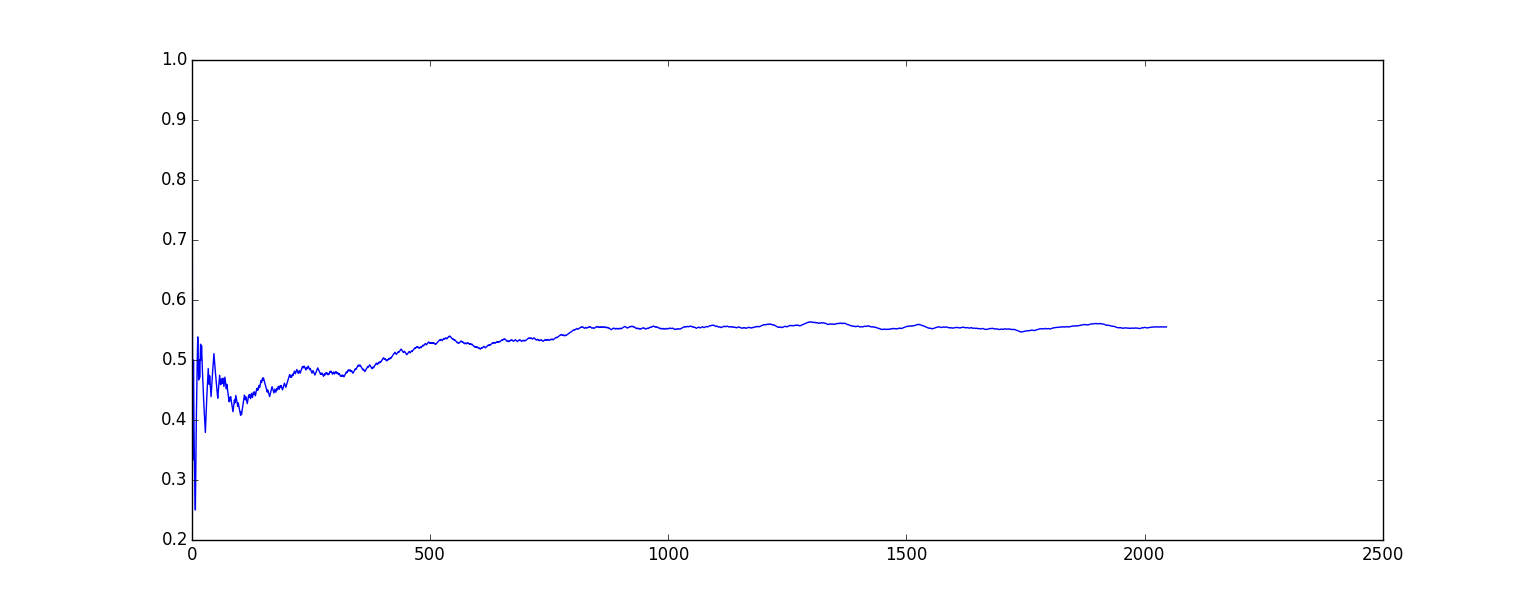
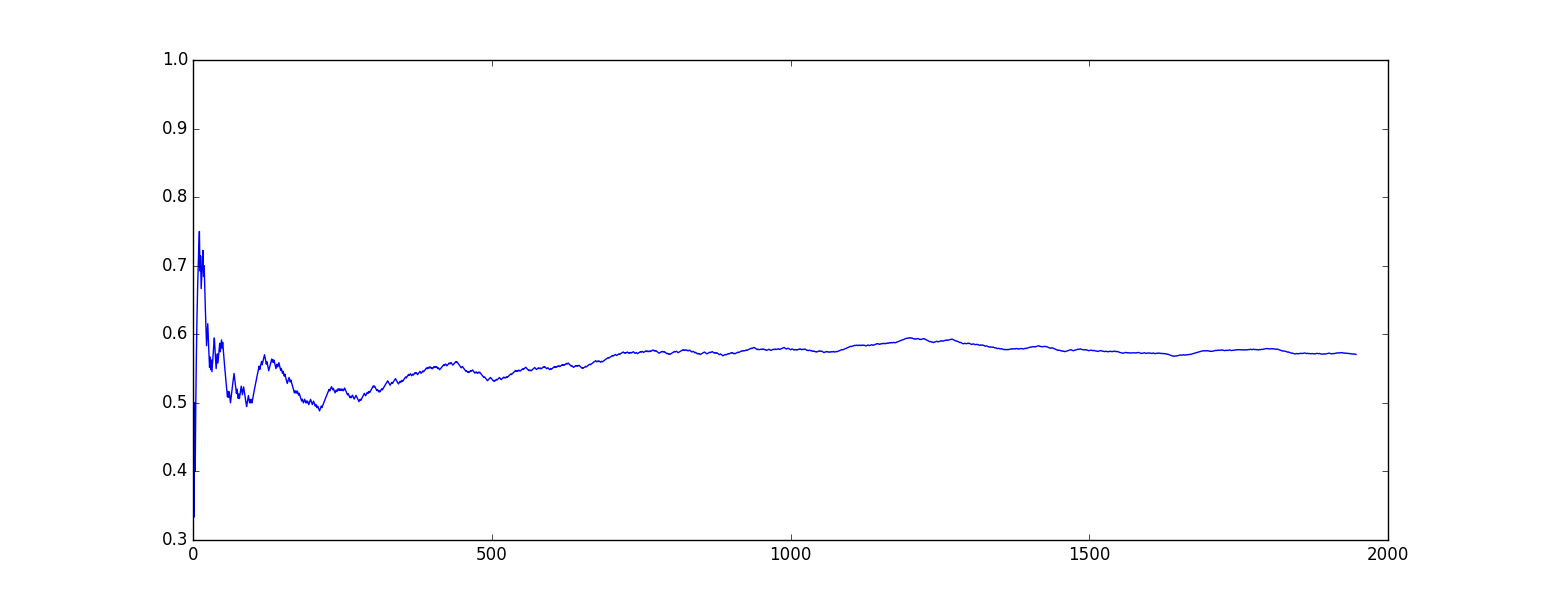
looking at different subsets for rf

diff --git a/test_warm_start.py b/test_warm_start.py
@@ -95,6 +95,73 @@ def from_100(): # 0.5546875 accuracy
     plt.plot(xrange(len(acc_growth)), acc_growth)
     plt.show()
 
+def from_dif():
+    # from_zero()
+    df = return_df()
+
+    x = df[['open','high','low','close']].values
+    y = df['classes'].values
+
+    # split = int(len(x) / 2)
+    # x_train = x[:split]
+    # y_train = y[:split]
+    #
+    # x_validate = x[split:]
+    # y_validate = y[split:]
+    #
+    # model = RandomForestClassifier()
+    # model.fit(x_train, y_train)
+
+    num_correct = []
+    weight = 50 # how much influence do you want the new ticks to have?
+
+    model = RandomForestClassifier(warm_start=False)
+
+    # set at 25 accuracy = 0.496786950074
+    # set at 50 accuracy = 0.529029029029
+    # set at 100 accuracy = 0.58932238193
+    # set at 150 accuracy = 0.605374077977
+    # set at 200 accuracy = 0.6130952380952381
+    # set at 250 accuracy = 0.6201334816462737
+    # set at 300 accuracy = 0.655606407323
+    # set at 350 accuracy = 0.648409893993
+    # set at 400 accuracy = 0.670509708738
+    # set at 450 accuracy = 0.667709637046
+    # set at 500 accuracy = 0.678294573643
+    # set at 600 accuracy = 0.69544198895
+    # set at 700 accuracy = 0.720326409496
+    # set at 800 accuracy = 0.720352564103
+    # set at 900 accuracy = 0.72212543554
+    # set at 1000 accuracy = 0.749045801527
+    # set at 1100 accuracy = 0.760548523207
+
+    dist = 1100
+    model.fit(x[:dist], y[:dist])
+
+    # simulate incoming timeseries data
+    for tick in xrange(dist, len(x)):
+        if model.predict(x[tick]) == y[tick]:
+            num_correct.append(1)
+        else:
+            num_correct.append(0)
+
+        # update model with new data
+        if tick > 1:
+            model = RandomForestClassifier(warm_start=False)
+            model.fit(x[tick-dist: tick], y[tick-dist: tick])
+        else:
+            model = RandomForestClassifier(warm_start=True)
+
+            model.fit(x[tick], y[tick])
+
+    accuracy = sum(num_correct) / float(len(num_correct))
+    print ''
+    print "accuracy:", accuracy
+
+    acc_growth = [ sum(num_correct[:val])/float(val) for val in xrange(1, len(num_correct)+1) ]
+    plt.plot(xrange(len(acc_growth)), acc_growth)
+    plt.show()
+    
 if __name__ == '__main__':
     # from_zero()
     df = return_df()
@@ -115,29 +182,48 @@ if __name__ == '__main__':
     num_correct = []
     weight = 50 # how much influence do you want the new ticks to have?
 
-    model = RandomForestClassifier()
+    model = RandomForestClassifier(warm_start=False)
 
-    model.fit(x[0], y[0])
+    # set at 25 accuracy = 0.496786950074
+    # set at 50 accuracy = 0.529029029029
+    # set at 100 accuracy = 0.58932238193
+    # set at 150 accuracy = 0.605374077977
+    # set at 200 accuracy = 0.6130952380952381
+    # set at 250 accuracy = 0.6201334816462737
+    # set at 300 accuracy = 0.655606407323
+    # set at 350 accuracy = 0.648409893993
+    # set at 400 accuracy = 0.670509708738
+    # set at 450 accuracy = 0.667709637046
+    # set at 500 accuracy = 0.678294573643
+    # set at 600 accuracy = 0.69544198895
+    # set at 700 accuracy = 0.720326409496
+    # set at 800 accuracy = 0.720352564103
+    # set at 900 accuracy = 0.72212543554
+    # set at 1000 accuracy = 0.749045801527
+    # set at 1100 accuracy = 0.760548523207
+
+    dist = 1100
+    model.fit(x[:dist], y[:dist])
 
     # simulate incoming timeseries data
-    for tick in xrange(1, len(x)):
+    for tick in xrange(dist, len(x)):
         if model.predict(x[tick]) == y[tick]:
             num_correct.append(1)
         else:
             num_correct.append(0)
 
         # update model with new data
-        if tick > 100:
-            model = RandomForestClassifier()
-            model.fit(x[tick-100: tick], y[tick-100: tick])
+        if tick > 1:
+            model = RandomForestClassifier(warm_start=False)
+            model.fit(x[tick-dist: tick], y[tick-dist: tick])
         else:
             model = RandomForestClassifier(warm_start=True)
 
             model.fit(x[tick], y[tick])
 
-    accuracy = sum(num_correct) / float(len(x))
-        # print ''
-        # print "accuracy:", accuracy
+    accuracy = sum(num_correct) / float(len(num_correct))
+    print ''
+    print "accuracy:", accuracy
 
     acc_growth = [ sum(num_correct[:val])/float(val) for val in xrange(1, len(num_correct)+1) ]
     plt.plot(xrange(len(acc_growth)), acc_growth)
